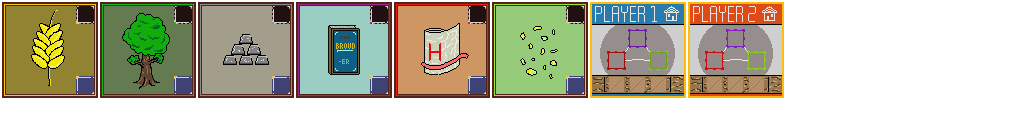
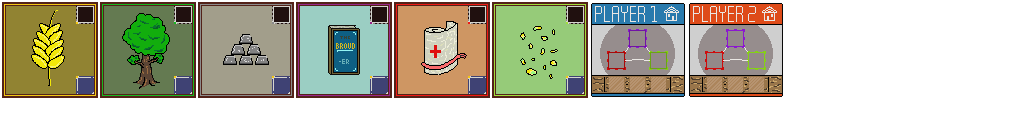
puta madre hostia

diff --git a/core/src/com/mygdx/theafrica/CardUtils/GameCard.java b/core/src/com/mygdx/theafrica/CardUtils/GameCard.java
@@ -4,10 +4,7 @@ import com.badlogic.gdx.graphics.g2d.SpriteBatch;
 import com.badlogic.gdx.graphics.g2d.TextureRegion;
 import com.badlogic.gdx.math.Rectangle;
 import com.badlogic.gdx.math.Vector2;
-import com.mygdx.theafrica.Assets;
-import com.mygdx.theafrica.GameObject;
-import com.mygdx.theafrica.Layer;
-import com.mygdx.theafrica.Player;
+import com.mygdx.theafrica.*;
 
 public class GameCard extends GameObject {
 
@@ -17,6 +14,8 @@ public class GameCard extends GameObject {
     public Vector2 playerPosition; //Saves the position it shows either player 1 or 2 controls that casilla with the imagen of the jugador
     public Vector2 turnPosition;//Saves the position of the image where the image of the turns that casilla has left
     public CardType ctype;
+    boolean isDeleting = false;
+    public int workerIndex;
 
     public GameCard(CardType type, float posX, float posY, int indexRow, int indexColumn)
     {
@@ -28,15 +27,16 @@ public class GameCard extends GameObject {
         height = 96;
         scale = new Vector2(2.5f,2.5f);
 
+
         updateCardPositions();
 
         if(ctype == CardType.BANDAGE || ctype ==  CardType.BOOK || ctype == CardType.SEED)
         {
-            usageTurns = 7;
+            usageTurns = 6;
         }
         else if (ctype == CardType.WHEAT || ctype == CardType.WOOD || ctype == CardType.IRON)
         {
-            usageTurns = 4;
+            usageTurns = 3;
         }
 
         //playerPosition = new Vector2(x+15, y+15);
@@ -44,11 +44,27 @@ public class GameCard extends GameObject {
 
     }
 
+    public void decreaseCardTurn()
+    {
+        usageTurns --;
+    }
+
+    void handleExhaustedTurns()
+    {
+        isDeleting = true;
+        SoundManager.reproduceSounds(4);
+        WorldController.instance.levelManager.getGrid().replaceCard((int)index.x, (int)index.y);
+        player.gwArray[workerIndex].getBackToBase();
+        player = null;
+        WorldController.instance.levelManager.Despawn(this);
+
+    }
+
 
     public void updateCardPositions()
     {
         playerPosition = new Vector2(x+75*scale.x, y+3*scale.y);
-        turnPosition = new Vector2(x+75*scale.x, y+75*scale.y);
+        turnPosition = new Vector2(x+76*scale.x, y+76*scale.y);
     }
 
     public boolean hasWorker()
@@ -59,17 +75,27 @@ public class GameCard extends GameObject {
     @Override
     public void draw(SpriteBatch batch) {
         batch.draw(texRegionToDraw(ctype.getValue()),x,y,0,0,width,height,scale.x,scale.y,rotation);
+        batch.draw(texRegionToDrawDICE(usageTurns), turnPosition.x, turnPosition.y,0,0,15,15,scale.x,scale.y,rotation);
     }
     TextureRegion texRegionToDraw(int i)
     {
         return Assets.getInstance().cardsReg[i];
     }
+    TextureRegion texRegionToDrawDICE(int i)
+    {
+        return Assets.getInstance().dice[i];
+    }
 
     @Override
     public void update(float delta) {
 
+        if(usageTurns <=0 && !isDeleting)
+        {
+            handleExhaustedTurns();
+        }
 
     }
+
 
     @Override
     public void draw(SpriteBatch batch, float staTime) {

diff --git a/core/src/com/mygdx/theafrica/Player.java b/core/src/com/mygdx/theafrica/Player.java
@@ -72,15 +72,11 @@ public class Player extends GameObject {
     public void draw(SpriteBatch batch)
     {
         if(number == 1)
-            batch.draw(texRegionToDraw(actionNumber), -WorldController.instance.levelManager.getBg().width/2 +150, 100,0,0,width,height,scale.x,scale.y,rotation);
+            batch.draw(texRegionToDraw(actionNumber), -WorldController.instance.levelManager.getBg().width/2 +150, 250,0,0,width,height,scale.x,scale.y,rotation);
         else
-            batch.draw(texRegionToDraw(actionNumber), WorldController.instance.levelManager.getBg().width/2 -150 -width*scale.x, 100,0,0,width,height,scale.x,scale.y,rotation);
+            batch.draw(texRegionToDraw(actionNumber), WorldController.instance.levelManager.getBg().width/2 -150 -width*scale.x, 250,0,0,width,height,scale.x,scale.y,rotation);
 
     }
-
-
-
-
     TextureRegion texRegionToDraw(int i)
     {
         return Assets.getInstance().dice[i];
@@ -120,13 +116,14 @@ public class Player extends GameObject {
 
             if(gc.hasWorker())
             {
-                //if the worker is one of the current turn' player, accelerate
+                //if the worker is one of the current turn's player, accelerate
                 if(gc.player==this)
                 {
                     Gdx.app.debug("PLAYER", "WORKER ACCELERATED");
                     SoundManager.reproduceSounds(2);
                     actionNumber --;
                     //make card have one less turn too
+                    gc.decreaseCardTurn();
                 }
                 else return;
             }
@@ -138,6 +135,7 @@ public class Player extends GameObject {
                 {
                     if(!gwArray[i].working) {
                         gwArray[i].goToCard(gc);
+                        gc.workerIndex = i;
                         SoundManager.reproduceSounds(1);
                         actionNumber --;
                         break;

diff --git a/core/src/com/mygdx/theafrica/LevelManager.java b/core/src/com/mygdx/theafrica/LevelManager.java
@@ -210,8 +210,22 @@ public class LevelManager {
         {
             if(L.name == Layer.LayerNames.CARD)
             {
-                if(4*row + column != 0 && 4*row + column  !=15)
-                go = (GameCard)L.list.get(4 * row + column);
+
+                for(GameObject c: L.list)
+                {
+                    if((row==0 && column ==0) || (row==3 && column == 3))
+                    {
+
+                    }
+                    else go = (GameCard)c;
+
+                    if ((int)go.index.x == row && (int)go.index.y == column)
+                    {
+                        System.out.println("Card returned with row:" + go.index.x + ", column: " +go.index.y );
+                        break;
+                    }
+                }
+
             }
         }
         if(go==null) System.out.println("There is no Marker object");

diff --git a/core/src/com/mygdx/theafrica/Grid.java b/core/src/com/mygdx/theafrica/Grid.java
@@ -71,6 +71,11 @@ public class Grid extends GameObject{
 
     }
 
+    public void replaceCard(int row, int column)
+    {
+        WorldController.instance.levelManager.Instantiate(new GameCard(GetCardType(), positions[row][column].x, positions[row][column].y, row, column));
+    }
+
     CardType GetCardType()
     {
         float randomizer = (float)Math.random()*100;

diff --git a/core/src/com/mygdx/theafrica/Assets.java b/core/src/com/mygdx/theafrica/Assets.java
@@ -108,7 +108,7 @@ public class Assets {
 
         for(int i = 0; i<cardsNumber; i++)
         {
-            cardsReg[i] = SpriteHelper.textureFromTextureAtlas("cards"+(i), cards);
+            cardsReg[i] = SpriteHelper.textureFromTextureAtlas("card"+(i), cards);
         }
 
 

diff --git a/core/src/com/mygdx/theafrica/GameWorker.java b/core/src/com/mygdx/theafrica/GameWorker.java
@@ -82,6 +82,9 @@ public class GameWorker extends GameObject{
     public void getBackToBase()
     {
         working = false;
+        //getInitialPos();
+        x = targetPos.x;
+        y = targetPos.y;
     }
 
     public void goToCard(GameCard gc)
